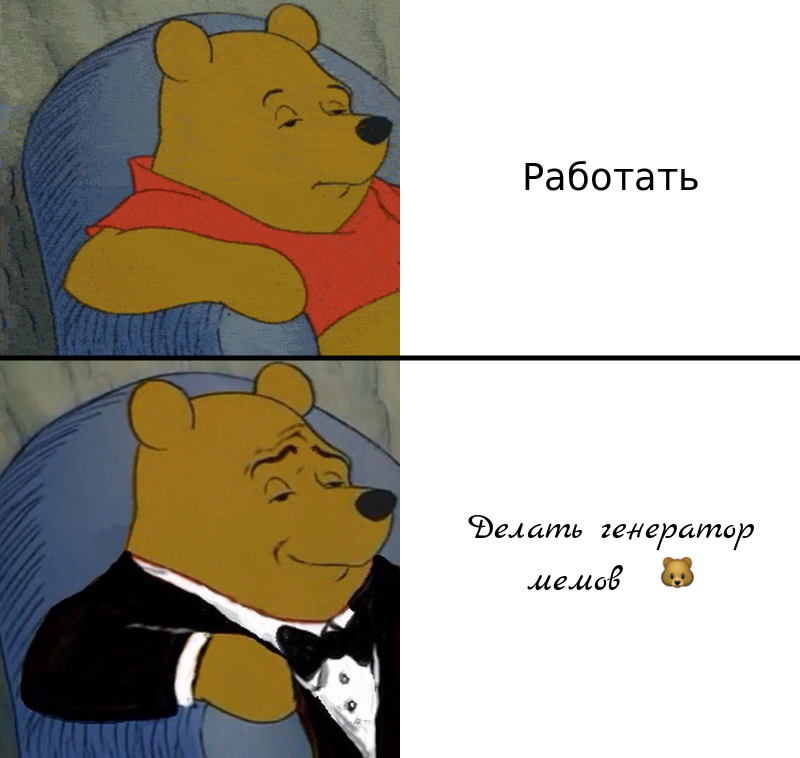
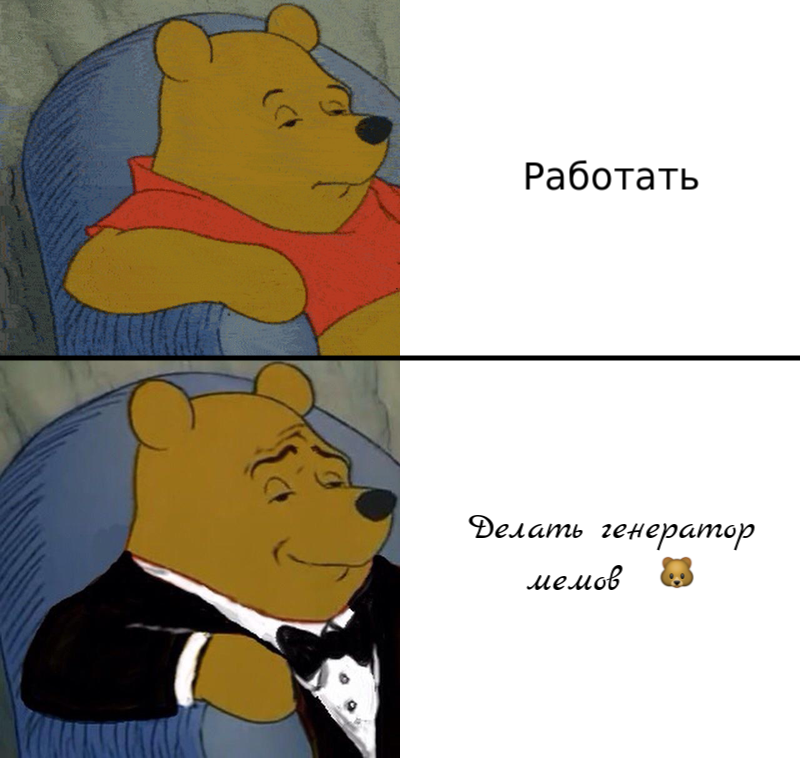
add SMALL_CAPS and UPPER_CAPS;

Changed region(s): [[0.6562, 0.6675, 0.9375, 0.7889], [0.6562, 0.2124, 0.875, 0.2731], [0.5938, 0.6675, 0.7188, 0.7282]]

diff --git a/tests/texts/test_styles.py b/tests/texts/test_styles.py
@@ -8,8 +8,13 @@ def test_text_style(image_regression):
     r = Render(400, 200)
     r.fill_bg()
 
-    for i, style in enumerate([TextStyle.NORMAL, TextStyle.OBLIQUE, TextStyle.ITALIC]):
-        font = Font(size=16, style=style)
+    for i, style in enumerate([TextStyle.OBLIQUE,
+                               TextStyle.ITALIC,
+                               TextStyle.SMALL_CAPS,
+                               TextStyle.UPPER_CAPS,
+                               TextStyle.UPPER_CAPS | TextStyle.ITALIC,
+                               ]):
+        font = Font(size=13, style=style)
 
         text = Text(f"{style}: test 🌚 🍆", font=font)
         r.draw_text(
@@ -24,11 +29,12 @@ def test_text_border(image_regression):
     r.fill_bg()
     font = Font("Impact", size=25)
 
-    text = Text(f"TEST з̴̢̺̤̦̬̩̱̺̭̠͚̀̒͛̈̏͌̂̔̎̑́̇͜͝͝а̶̢̟̦̝͎̖̘̯̦͚͚͉̖̒̊̄̅͌̈́̈ͅл̷̢̧̨͉̩͉͚̭͎̗̤̤̓̉̀̔̈́̓г̵̨̙̯̖͖̠͈̙͇̼̟̮̦̍о̷̻̖̮͉̜̰̲̪̅͋̃̃͒͜",
-                font=font,
-                color=Color.from_str("#FFF"),
-                border=Line(width=1, color=Color.from_str("#F00"))
-                )
+    text = Text(
+        f"TEST з̴̢̺̤̦̬̩̱̺̭̠͚̀̒͛̈̏͌̂̔̎̑́̇͜͝͝а̶̢̟̦̝͎̖̘̯̦͚͚͉̖̒̊̄̅͌̈́̈ͅл̷̢̧̨͉̩͉͚̭͎̗̤̤̓̉̀̔̈́̓г̵̨̙̯̖͖̠͈̙͇̼̟̮̦̍о̷̻̖̮͉̜̰̲̪̅͋̃̃͒͜",
+        font=font,
+        color=Color.from_str("#FFF"),
+        border=Line(width=1, color=Color.from_str("#F00"))
+        )
     r.draw_text(
         text,
         pos=Point(20, 50))

diff --git a/meme_generator/text.py b/meme_generator/text.py
@@ -12,20 +12,26 @@ class Font:
     name: str = "Sans"
     size: int = 12
 
-    style: TextStyle = TextStyle.NORMAL
+    style: Optional[TextStyle] = None
 
     @property
     def font_desc(self):
         # https://lazka.github.io/pgi-docs/Pango-1.0/classes/FontDescription.html#Pango.FontDescription
         font = pango.FontDescription.from_string(f'{self.name} {self.size}')
-        font.set_style(self.style.value)
+        if self.style:
+            style = (TextStyle.ITALIC | TextStyle.OBLIQUE) & self.style
+            if style:
+                font.set_style(getattr(pango.Style, style.name))
+            variant = TextStyle.SMALL_CAPS & self.style
+            if variant:
+                font.set_variant(pango.Variant.SMALL_CAPS)
         # https://valadoc.org/pango/Pango.html
         return font
 
 
 @dataclass
 class Text:
-    text: str
+    _text: str
     width: str or None = None
     height: str or None = None
     font: Font = Font()
@@ -35,6 +41,16 @@ class Text:
 
     # shadow: Optional[Shadow] = None
     border: Optional[Line] = None
+
+    @property
+    def text(self) -> str:
+        if self.font.style and TextStyle.UPPER_CAPS & self.font.style:
+            return self._text.upper()
+        return self._text
+
+    @text.setter
+    def text(self, v: str) -> None:
+        self._text = v
 
     def get_bound(self) -> Size:
         from .helpers import get_text_bound

diff --git a/meme_generator/draw/text.py b/meme_generator/draw/text.py
@@ -72,8 +72,9 @@ class DrawText(BaseDraw):
         layout.set_font_description(text.font.font_desc)
         layout.set_text(text.text)
 
-        sub_surf_size = Size(box.w * 4, box.h * 4)
-        sub_offset = Size(int(sub_surf_size.w / 4), int(sub_surf_size.h / 4))
+        sub_surf_size = Size(box.w + 40, box.h + 150)
+        sub_offset = Size(int(20), int(sub_surf_size.h / 4))
+
         if text.border:
             b_width = text.border.width
             surf = cairo.ImageSurface(cairo.FORMAT_ARGB32, sub_surf_size.w, sub_surf_size.h)

diff --git a/meme_generator/constants.py b/meme_generator/constants.py
@@ -1,4 +1,4 @@
-from enum import Enum, Flag, auto
+from enum import Enum, Flag, auto, unique
 
 from gi.repository import Pango as pango
 
@@ -9,10 +9,16 @@ class TextAlignment(Enum):
     RIGHT = pango.Alignment.RIGHT
 
 
+@unique
 class TextStyle(Flag):
-    NORMAL = pango.Style.NORMAL
-    ITALIC = pango.Style.ITALIC
-    OBLIQUE = pango.Style.OBLIQUE
+    ITALIC = auto()
+    OBLIQUE = auto()
+    # Variant
+    SMALL_CAPS = auto()
+
+    # Logic
+    UPPER_CAPS = auto()
+
 
 
 class Align(Flag):

diff --git a/README.md b/README.md
@@ -18,3 +18,8 @@ sudo apt install \
     gir1.2-gtk-3.0
 ```
 
+
+## Useful docs 
+
+* https://lazka.github.io/pgi-docs/PangoCairo-1.0/functions.html
+* https://valadoc.org/pango/index.htm
